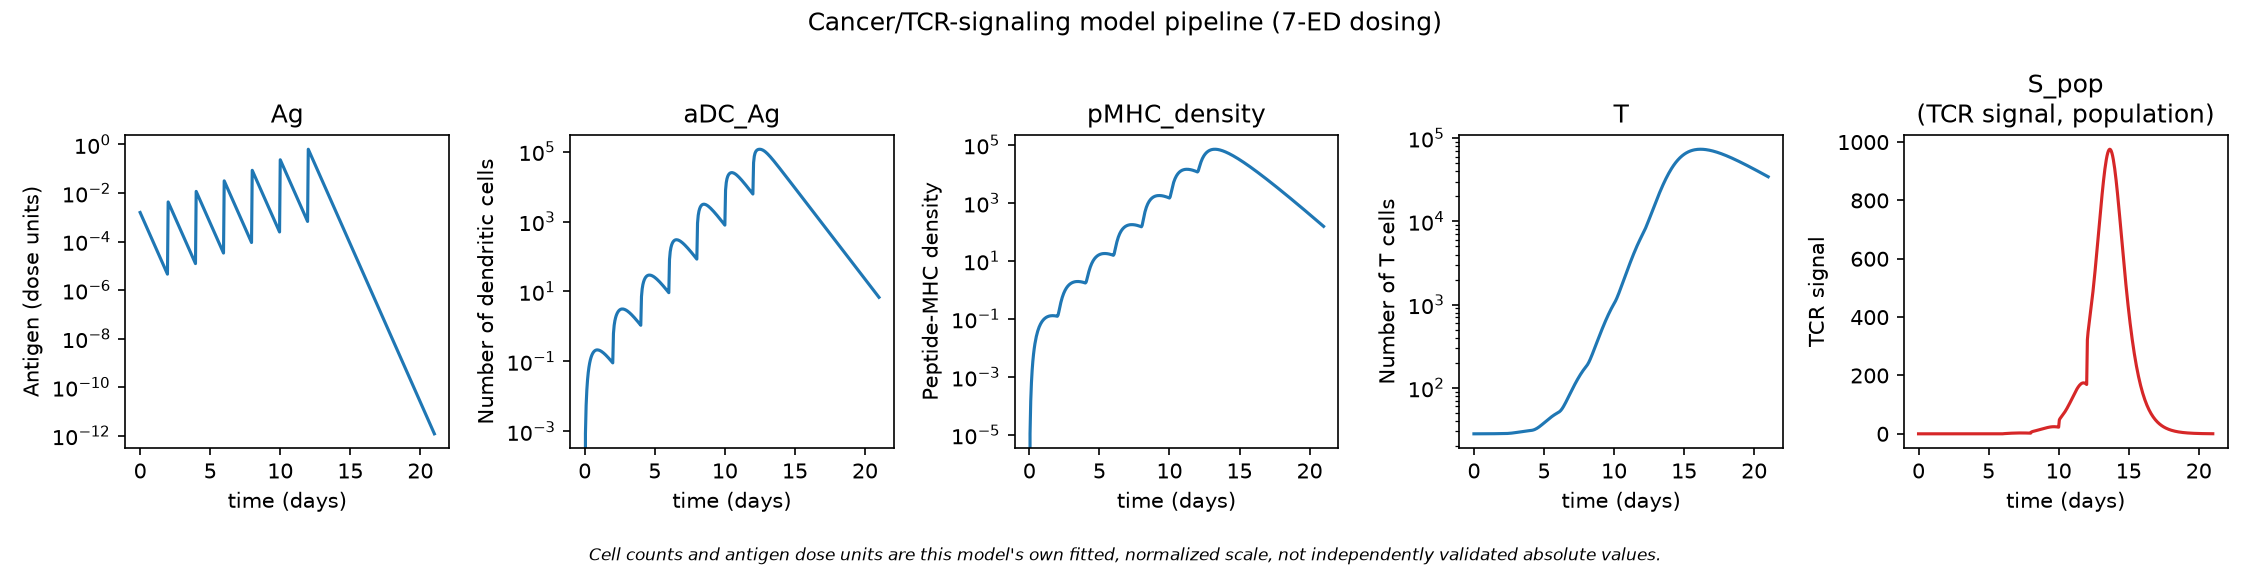
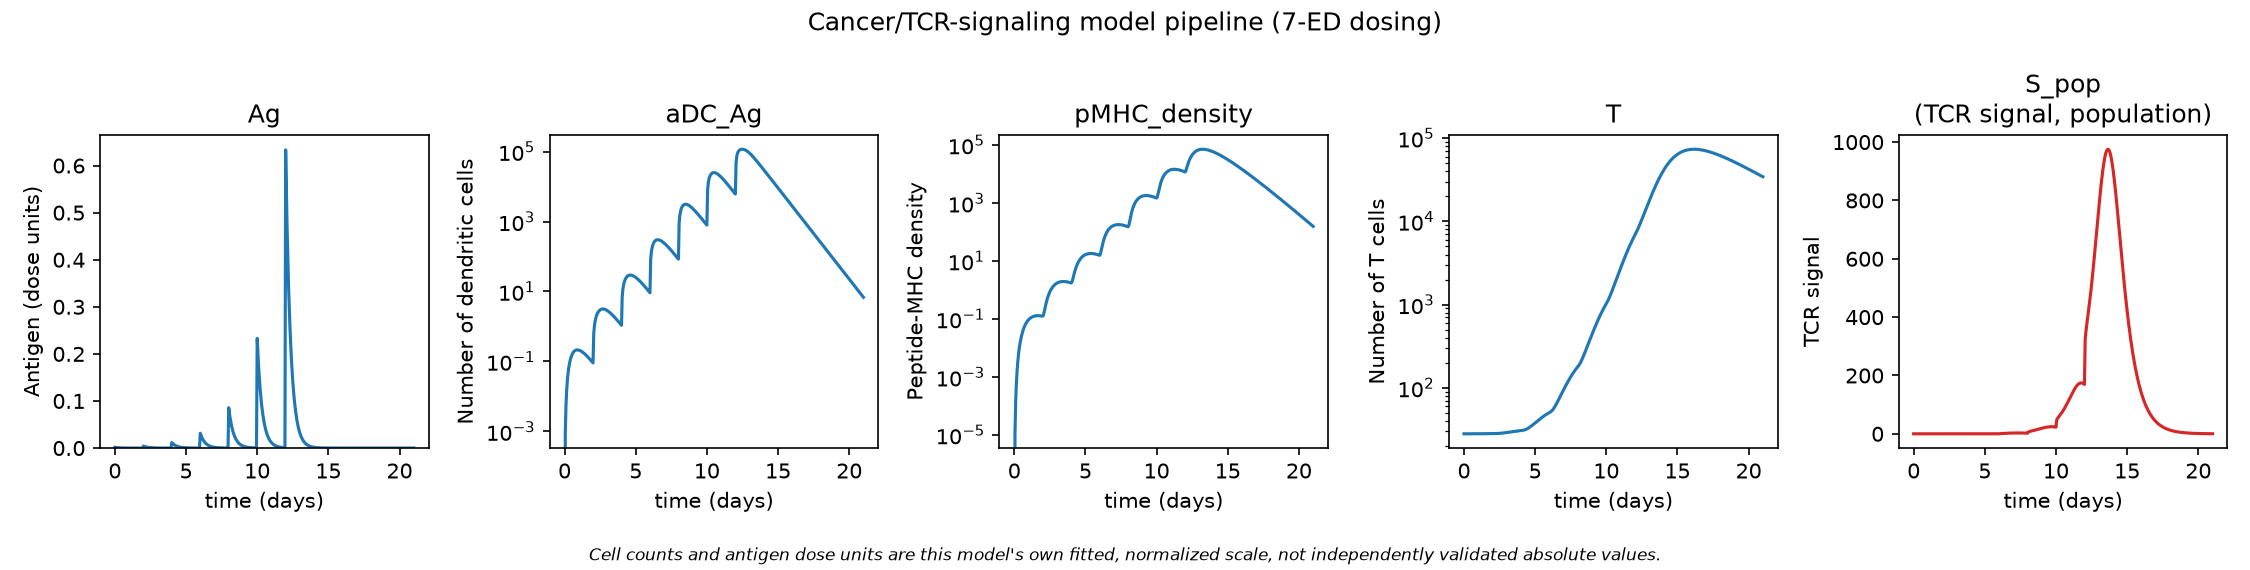
Remove conversational language; add dosing schedule cookbook to notebook
Rewrote docs/cancer_tcr_model.md, models/cancer_tcr/__init__.py, and
parameters/cancer_tcr.py to remove language written as a reply to a
specific chat participant (named references, "per your decision",
"per your explicit instruction") and replace it with neutral,
third-person documentation addressed to any reader of the model.

Added a "dosing schedule cookbook" section to the Colab notebook
demonstrating all 8 distinct DoseSchedule construction styles (bolus,
equal doses, fractions/absolute doses with shared times, independently
timed antigen/adjuvant channels, matched and independently-escalating
exponential schedules, and the no-adjuvant edge case), each with
commented code, a printed dose-event summary, and a plotted Ag/Adj
trace. Also fixed the antigen axis in Part 1 to use a linear 0-based
scale instead of log/scientific notation, matching the same fix already
applied to examples/06.

Verified by headless notebook execution and the full test suite
(151 passed).

diff --git a/src/vaccine_tcell_model/parameters/cancer_tcr.py b/src/vaccine_tcell_model/parameters/cancer_tcr.py
@@ -7,7 +7,8 @@ discipline as parameters/integrated.py):
 - "cancer_tcr": the ODE population dynamics (Ag/Adj/TC/DC/aDC_Ag reused
   unchanged from Science; pMHC_density and the T-cell equation are this
   project's own extension, replacing Mayer/Science's Tfh-oriented
-  equations per Zach's request -- see models/cancer_tcr/).
+  equations for a cancer-context, non-humoral readout -- see
+  models/cancer_tcr/).
 - "tcr_signal": the closed-form kinetic-proofreading TCR-signal
   calculation (Chakraborty & Weiss 2014), a pure function of the ODE's
   already-simulated trajectories, not itself part of the ODE.
@@ -177,11 +178,11 @@ def default_tcr_signal_parameters(
     """Default parameters for the closed-form kinetic-proofreading
     TCR-signal calculation (models/cancer_tcr/signal.py).
 
-    K_D: the model's REQUIRED scientific input (per user decision) --
-    antigen affinity, in uM. Default 50 uM is illustrative only (mid-range
-    "tumor self-antigen" per Stone, Chervin & Kranz 2009, Immunology
-    126:165-176) -- always override with Zach's actual measured/assumed
-    antigen affinity.
+    K_D: the model's REQUIRED scientific input -- antigen affinity, in
+    uM. Default 50 uM is illustrative only (mid-range "tumor
+    self-antigen" per Stone, Chervin & Kranz 2009, Immunology
+    126:165-176) -- always override with the real measured or assumed
+    affinity of the antigen being modeled.
 
     k_on: FIXED literature constant (both source documents agree TCR-pMHC
     k_on varies little across peptides; k_off carries the affinity
@@ -198,7 +199,7 @@ def default_tcr_signal_parameters(
     values (Tischer & Weiner 2019; Yousefi et al. 2019 optogenetic
     dwell-time-tuning experiments report ~2-4 effective steps at ~seconds
     each), not measured for any specific tumor-antigen/cDC1 system --
-    treat both as FITTABLE against Zach's experimental TCR-signal readout,
+    treat both as FITTABLE against real experimental TCR-signal data,
     not as fixed literature constants.
 
     include_serial_triggering: RESERVED, not yet implemented (0.0=off,
@@ -214,8 +215,9 @@ def default_tcr_signal_parameters(
             "K_D", K_D, default=50.0, units="uM",
             description=(
                 "TCR-pMHC antigen affinity (dissociation constant), REQUIRED "
-                "scientific input -- Zach's antigen, not an illustrative value. "
-                "Also used directly (unconverted) as the occupancy saturation "
+                "scientific input -- the antigen actually being modeled, not "
+                "an illustrative value. Also used directly (unconverted) as "
+                "the occupancy saturation "
                 "constant against pMHC_density -- see the K_D-units caveat in "
                 "models/cancer_tcr/signal.py and docs/cancer_tcr_model.md"
             ),

diff --git a/src/vaccine_tcell_model/models/cancer_tcr/__init__.py b/src/vaccine_tcell_model/models/cancer_tcr/__init__.py
@@ -1,9 +1,9 @@
 """This project's cancer/TCR-signaling model: Ag -> DC -> aDC_Ag -> pMHC_density -> T,
 plus a closed-form TCR signaling-strength calculation (docs/cancer_tcr_model.md).
 
-Built per Zach's request (a cancer-mouse/patient dosing-comparison tool,
-not the virus/humoral-antibody pipeline the Science/Mayer/Integrated
-models target): reuses Bhagchandani et al. 2024's upstream DC/adjuvant
+A cancer-mouse/patient dosing-comparison tool, not the virus/humoral-
+antibody pipeline the Science/Mayer/Integrated models target: reuses
+Bhagchandani et al. 2024's upstream DC/adjuvant
 pharmacokinetics unchanged, replaces the Tfh/germinal-center output with
 nothing (no Tfh compartment at all), and adds a kinetic-proofreading TCR
 signaling-strength layer built from Chakraborty & Weiss 2014. NEVER

diff --git a/examples/06_cancer_tcr_model.py b/examples/06_cancer_tcr_model.py
@@ -68,7 +68,14 @@ def plot_pipeline(fig) -> None:
         ax.set_title(name)
         ax.set_xlabel("time (days)")
         ax.set_ylabel(PIPELINE_YLABELS[name])
-        ax.set_yscale("log")
+        if name == "Ag":
+            # Linear 0-1 scale (plain floats) rather than log/scientific
+            # notation -- antigen's own dynamic range is small enough
+            # (default total dose = 1.0) that log scale just obscures it
+            # behind tiny decay-tail values instead of showing the doses.
+            ax.set_ylim(bottom=0)
+        else:
+            ax.set_yscale("log")
 
     axes[-1].plot(signal_df["time"], signal_df["S_pop"], color="C3")
     axes[-1].set_title("S_pop\n(TCR signal, population)")

diff --git a/docs/cancer_tcr_model.md b/docs/cancer_tcr_model.md
@@ -1,8 +1,8 @@
 # Cancer/TCR-signaling model
 
-A readable overview of the fourth model in this package, added per Zach's
-request: a tool for comparing **TCR signaling strength across dosing
-schedules** in a cancer (mouse/patient) context, rather than the
+A readable overview of the fourth model in this package: a tool for
+comparing **TCR signaling strength across dosing schedules** in a
+cancer (mouse/patient) context, rather than the
 virus/humoral-antibody pipeline the Science/Mayer/Integrated models
 target. For equation-by-equation code, see
 `src/vaccine_tcell_model/models/cancer_tcr/` and
@@ -106,10 +106,11 @@ physically different knobs behind one number.
 
 ## The TCR signaling-strength calculation
 
-Built from Chakraborty & Weiss 2014 (*Nat. Immunol.* 15:797-807), the
-paper Zach specifically flagged as more relevant than either of the
-original two papers. Two pieces, both closed-form (no new ODE
-integration):
+Built from Chakraborty & Weiss 2014 (*Nat. Immunol.* 15:797-807), a
+primary review of TCR-signal initiation that is more directly relevant
+to a proximal signal-strength readout than either of the two original
+vaccine-response papers this package started from. Two pieces, both
+closed-form (no new ODE integration):
 
 **1. Occupancy** -- the TCR+pMHC binding step is bimolecular
 (second-order), but because pMHC sits at a site with roughly constant
@@ -139,9 +140,9 @@ contacts(t)  = T(t) * aDC_Ag(t) / (T(t) + aDC_Ag(t))    # saturating T-DC meetin
 S_pop(t)     = S_contact(t) * contacts(t)               # population-aggregate signal
 ```
 
-Both outputs are exposed (per your decision to keep both, documented
-here so it's not a mystery later): `S_contact` isolates "how hard is
-each engaged TCR firing" (driven by affinity and pMHC density alone);
+Both outputs are exposed deliberately, so a low aggregate signal is
+always diagnosable: `S_contact` isolates "how hard is each engaged TCR
+firing" (driven by affinity and pMHC density alone);
 `S_pop` folds in "how many T cells and DCs are actually meeting" (driven
 by the dosing schedule via the upstream population dynamics). A low
 `S_pop` is therefore always traceable to one of exactly two causes,
@@ -162,8 +163,8 @@ explicitly): optogenetic dwell-time-tuning experiments (Tischer & Weiner
 2019; Yousefi et al. 2019) put the effective chain at **N ~ 2-4 steps**,
 each taking **on the order of seconds** (so `k_p` ~ 0.1-1/s). Defaults
 here are `N=3`, `k_p=0.3/s` -- documented as `model_extension`,
-illustrative, and meant to be **fit against Zach's own experimental
-TCR-signal readout**, not treated as ground truth.
+illustrative, and meant to be **fit against real experimental
+TCR-signal data**, not treated as ground truth.
 
 ## `K_D` and `k_on`
 
@@ -224,28 +225,30 @@ real pMHC copy-number data lets us calibrate `pMHC_density`'s scale.
 
 ## The serial-triggering question -- deliberately not implemented
 
-Zach's background-reading report presents a bell-shaped
-response-vs-dwell-time curve (proofreading rewards long dwell, serial
-triggering rewards short dwell, product peaks at an intermediate
-affinity). Chakraborty & Weiss 2014 are explicitly skeptical of this as
-a general phenomenon: they cite Holler & Kranz 2003's TCR-affinity-variant
-data (half-lives spanning 30-1500s) showing a **monotonic** response with
-**no observed optimum**, and state "very little evidence exists in clear
-support" of the bell-curve prediction. Since this model exists
-specifically to be validated against Zach's own data, the bell curve is
-left as an **untested hypothesis**, not baked into the default equations:
+Background reading on TCR triggering mechanisms often presents a
+bell-shaped response-vs-dwell-time curve (proofreading rewards long
+dwell, serial triggering rewards short dwell, product peaks at an
+intermediate affinity). Chakraborty & Weiss 2014 are explicitly
+skeptical of this as a general phenomenon: they cite Holler & Kranz
+2003's TCR-affinity-variant data (half-lives spanning 30-1500s) showing
+a **monotonic** response with **no observed optimum**, and state "very
+little evidence exists in clear support" of the bell-curve prediction.
+Since this model exists specifically to be validated against real
+experimental data, the bell curve is left as an **untested hypothesis**,
+not baked into the default equations:
 `tcr_signal_params.value("include_serial_triggering")` is a reserved
 flag that raises `NotImplementedError` if set to a nonzero value, rather
-than silently doing nothing. Implement it only if Zach's data actually
-shows the predicted downturn.
+than silently doing nothing. Implement it only if validation data
+actually shows the predicted downturn.
 
 ## Deferred: downstream fate (signal 2/3, NFAT/AP-1, anergy/exhaustion)
 
-Zach's background report also covers CD28 costimulation (signal 2),
-inflammatory cytokines (signal 3), and the NFAT/AP-1 partnership that
-determines full effector differentiation vs. anergy/exhaustion. None of
-that is implemented here -- per your explicit instruction, this model
-stops at `S_contact`/`S_pop` (the proximal TCR-triggering signal), and a
-"Module F" covering downstream fate is deferred until/unless Zach wants
-it. If it's added later, it should consume `S_contact`/`S_pop` as an
-input rather than being fused into this module.
+The broader TCR-signaling literature also covers CD28 costimulation
+(signal 2), inflammatory cytokines (signal 3), and the NFAT/AP-1
+partnership that determines full effector differentiation vs.
+anergy/exhaustion. None of that is implemented here: this model is
+deliberately scoped to stop at `S_contact`/`S_pop` (the proximal
+TCR-triggering signal), and a "Module F" covering downstream fate is
+left for a future extension if a concrete need for it arises. If it is
+added later, it should consume `S_contact`/`S_pop` as an input rather
+than being fused into this module.
